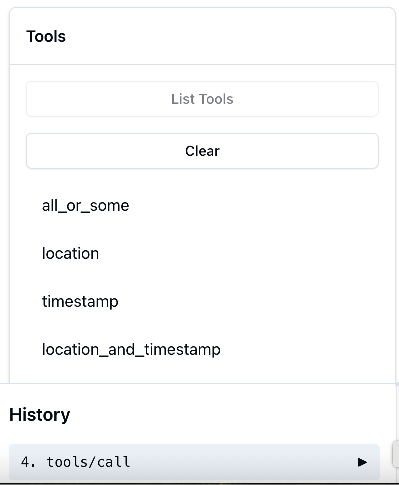
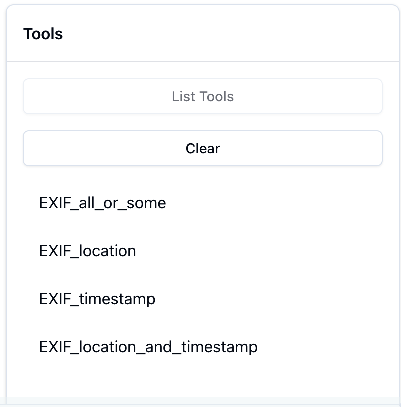
Update README paths, bump version, and refactor src/index.ts for tool execution
- Clarify config file paths in README for local and npm usage
- Add Claude Desktop integration view image reference
- Update package.json version to 1.0.7
- Refactor src/index.ts: add runToolFunction for running exiftool with validation and normalized paths
- Improve error handling in exiftool execution
- Update related documentation images

diff --git a/src/index.ts b/src/index.ts
@@ -28,37 +28,40 @@ const timeTags = [
   "-ContentModifyDate",
 ] as const;
 
+
+const TOOL_ALL_OR_SOME = "EXIF_all_or_some";
+const TOOL_LOCATION = "EXIF_location";
+const TOOL_TIMESTAMP = "EXIF_timestamp";
+const TOOL_LOCATION_AND_TIMESTAMP = "EXIF_location_and_timestamp";
+
 type ExiftoolOutput = Array<Record<string, unknown>>;
 
-function trimQuotes(str: string): string {
-  let start = 0;
-  let end = str.length;
-
-  // Trim leading quotes
-  while (start < end && (str[start] === '"' || str[start] === "'")) {
-    start++;
+async function runToolFunction(
+  filePath: string,
+  tags: readonly string[],
+  toolName?: string
+): Promise<{
+  content: {
+    type: "text";
+    text: string;
+  }[];
+}> {
+  if (!filePath || !PathUtils.isValidFilePath(filePath)) {
+    throw new Error(`Invalid filePath argument for tool "${toolName ?? "unknown"}".`);
   }
 
-  // Trim trailing quotes
-  while (end > start && (str[end - 1] === '"' || str[end - 1] === "'")) {
-    end--;
-  }
+  // Normalize path before using it
+  filePath = PathUtils.normalizePath(filePath);
 
-  return str.substring(start, end);
-}
-
-function isValidFilePath(path: string): boolean {
-
-  path = trimQuotes(path);
-
-  // Basic pattern check for MacOS and Windows file paths
-  // MacOS: starts with / or ~ or relative path (./ or ../) or /Volumes/ for network shares
-  // Windows: drive letter + :\ or UNC path \\
-
-  const macosPattern = /^(\/|~\/|\.\/|\.\.\/|\/Volumes\/).+/;
-  const windowsPattern = /^(?:[a-zA-Z]:\\|\\\\)/;
-
-  return macosPattern.test(path) || windowsPattern.test(path);
+  const runArgs = [...tags, filePath];
+  return runExiftool(runArgs).then(result => ({
+    content: [
+      {
+        type: "text",
+        text: JSON.stringify(convertGpsCoordinates(result)),
+      },
+    ],
+  }));
 }
 
 function prepareExiftoolArgs(
@@ -85,14 +88,19 @@ async function runExiftool(args: string[]): Promise<ExiftoolOutput> {
     const { stdout } = await execa("exiftool", preparedArgs);
     return JSON.parse(stdout) as ExiftoolOutput;
   } catch (err: unknown) {
+    handleExiftoolRunError(err);
+    // The above function always throws, but TypeScript doesn't know that.
+    // Add a throw here to satisfy the return type.
+    throw err;
+  }
+
+  function handleExiftoolRunError(err: unknown) {
     if (typeof err === "object" && err !== null) {
-      const errorObj = err as { code?: string; stderr?: string; message?: string };
-      if (
-        errorObj.code === "ENOENT" ||
+      const errorObj = err as { code?: string; stderr?: string; message?: string; };
+      if (errorObj.code === "ENOENT" ||
         (errorObj.stderr &&
           /exiftool(?!.*not found)/i.test(errorObj.stderr) &&
-          /not found|no such file|command not found/i.test(errorObj.stderr))
-      ) {
+          /not found|no such file|command not found/i.test(errorObj.stderr))) {
         throw new Error(
           "ExifTool executable not found. Please install ExifTool from https://exiftool.org/ and ensure it is in your system PATH."
         );
@@ -151,11 +159,6 @@ function convertGpsCoordinates(exifDataArray: ExiftoolOutput): ExiftoolOutput {
   });
 }
 
-const TOOL_ALL_OR_SOME = "all_or_some";
-const TOOL_LOCATION = "location";
-const TOOL_TIMESTAMP = "timestamp";
-const TOOL_LOCATION_AND_TIMESTAMP = "location_and_timestamp";
-
 const server = new McpServer({
   name: "ExifTool MCP Server",
   version: "1.0.0",
@@ -170,32 +173,74 @@ interface ToolFilePathParam {
   filePath: string;
 }
 
-async function runToolFunction(
-  filePath: string,
-  tags: readonly string[],
-  toolName?: string
-): Promise<{
-  content: {
-    type: "text";
-    text: string;
-  }[];
-}> {
-  if (!filePath || !isValidFilePath(filePath)) {
-    throw new Error(`Invalid filePath argument for tool "${toolName ?? "unknown"}".`);
-  }
-  filePath = trimQuotes(filePath);
+class PathUtils {
 
-  const runArgs = [...tags, filePath];
-  const result = await runExiftool(runArgs);
-  return {
-    content: [
-      {
-        type: "text",
-        text: JSON.stringify(convertGpsCoordinates(result)),
-      },
-    ],
-  };
+  static normalizePath(path: string): string {
+    path = this._trimQuotes(path);
+    return this._normalizePathInternal(path);
+  }
+
+  static _normalizePathInternal(path: string): string {
+    if (!path) return path;
+
+    // Check if path starts with ~ or ~/
+    if (path.startsWith("~")) {
+      // Get home directory from environment variables
+      const homeDir = process.env.HOME || process.env.USERPROFILE || "";
+
+      if (!homeDir) {
+        // If home directory is not found, return path as is
+        return path;
+      }
+
+      if (path === "~") {
+        return homeDir;
+      } else if (path.startsWith("~/") || path.startsWith("~\\")) {
+        // Replace ~ with home directory and keep the rest of the path
+        return homeDir + path.slice(1);
+      }
+    }
+
+    return path;
+  }
+
+  static _trimQuotes(str: string): string {
+
+    if(!str) return str;
+
+    str = str.trim();
+
+    let start = 0;
+    let end = str.length;
+
+    // Trim leading quotes
+    while (start < end && (str[start] === '"' || str[start] === "'")) {
+      start++;
+    }
+
+    // Trim trailing quotes
+    while (end > start && (str[end - 1] === '"' || str[end - 1] === "'")) {
+      end--;
+    }
+
+    return str.substring(start, end);
+  }
+
+  static isValidFilePath(path: string): boolean {
+    path = PathUtils.normalizePath(path);
+
+    // Basic pattern check for MacOS and Windows file paths
+    // MacOS: starts with / or ~ or relative path (./ or ../) or /Volumes/ for network shares
+    // Windows: drive letter + :\ or UNC path \\
+
+    const macosPattern = /^(\/|~\/|\.\/|\.\.\/|\/Volumes\/).+/;
+    const windowsPattern = /^(?:[a-zA-Z]:\\|\\\\)/;
+
+    return macosPattern.test(path) || windowsPattern.test(path);
+  }
 }
+
+/* Removed duplicate runToolFunction implementation */
 
 server.tool(
   TOOL_ALL_OR_SOME,

diff --git a/README.md b/README.md
@@ -33,13 +33,13 @@ This project provides a command-line/stdio transport MCP (Model Context Protocol
 
 ## Supported MCP Tools:
 
-- **all_or_some**: Return all or some EXIF properties. If args are not supplied, return all. The `args` parameter is an optional array of strings representing EXIF property names to return.
+- **EXIF_all_or_some**: Return all or some EXIF properties. If args are not supplied, return all. The `args` parameter is an optional array of strings representing EXIF property names to return.
 
-- **location**: Return GPS-related EXIF metadata. The `args` parameter is an optional array of additional arguments for exiftool.
+- **EXIF_location**: Return GPS-related EXIF metadata. The `args` parameter is an optional array of additional arguments for exiftool.
 
-- **timestamp**: Return timestamp-related EXIF metadata. The `args` parameter is an optional array of additional arguments for exiftool.
+- **EXIF_timestamp**: Return timestamp-related EXIF metadata. The `args` parameter is an optional array of additional arguments for exiftool.
 
-- **location_and_timestamp**: Return both GPS and timestamp EXIF metadata. The `args` parameter is an optional array of additional arguments for exiftool.
+- **EXIF_location_and_timestamp**: Return both GPS and timestamp EXIF metadata. The `args` parameter is an optional array of additional arguments for exiftool.
 
 The server listens for JSON-RPC 2.0 requests on stdin. 
 
@@ -50,7 +50,7 @@ The server listens for JSON-RPC 2.0 requests on stdin.
 
 ### When Using Npmjs.org Package
 
-Use the following entry in the `claude_desktop_config.json`
+Use the following entry in the `~/Library/Application Support/Claude/claude_desktop_config.json`
 
 ```json
 "Exiftool-agent": {
@@ -64,18 +64,19 @@ Use the following entry in the `claude_desktop_config.json`
 
 ### When Code Cloned from GitHub Locally
 
-Use the following development-time entry, in case you have cloned the source code, in Claude's `claude_desktop_config.json` (with appropriate repo path change):
+Use the following development-time entry, in case you have cloned the source code, in Claude's `~/Library/Application Support/Claude/claude_desktop_config.json` (with appropriate repo path change):
 
 ```json
 "Exiftool-agent": {
   "command": "sh",
   "args": [
     "-c",
-    "cd /Users/username/Projects/exiftool-mcp-server && npx node --loader ts-node/esm --no-warnings src/index.ts"
+    "cd ~/Projects/AI/exiftool-mcp-server && npx node --loader ts-node/esm --no-warnings src/index.ts"
   ]
 }
 ```
 
+### Claude Desktop Integration View
 ![Claude Desktop with Exit tool agent](docs/images/claude-desktop.png)
 
 ## Testing Locally With MCP Inspector
